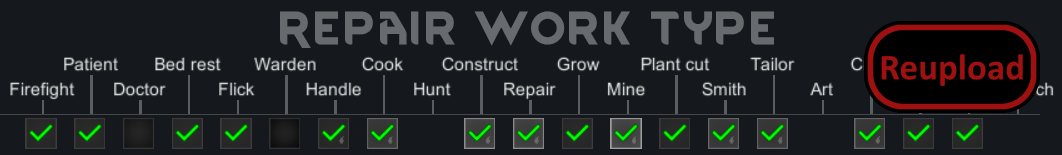
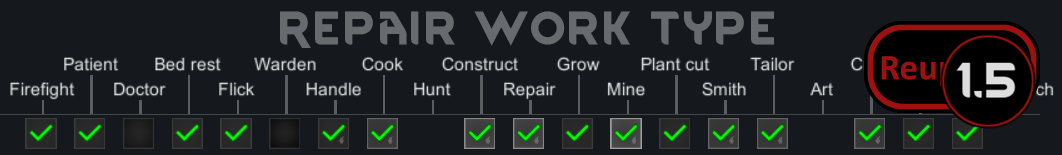
Mod updated for 1.5 and passed autotests

Changed region(s): [[0.8701, 0.2323, 0.9944, 0.8258]]

diff --git a/README.md b/README.md
@@ -32,12 +32,13 @@ Special thanks to kaptain_kavern for his mod "Corrected WorkGivers" which I took
 
 -  See if the the error persists if you just have this mod and its requirements active.
 -  If not, try adding your other mods until it happens again.
--  Post your error-log using https://steamcommunity.com/workshop/filedetails/?id=818773962]HugsLib and command Ctrl+F12
+-  Post your error-log using https://steamcommunity.com/workshop/filedetails/?id=818773962]HugsLib or the standalone https://steamcommunity.com/sharedfiles/filedetails/?id=2873415404]Uploader and command Ctrl+F12
 -  For best support, please use the Discord-channel for error-reporting.
 -  Do not report errors by making a discussion-thread, I get no notification of that.
 -  If you have the solution for a problem, please post it to the GitHub repository.
+-  Use https://github.com/RimSort/RimSort/releases/latest]RimSort to sort your mods
 
 
 
+https://steamcommunity.com/sharedfiles/filedetails/changelog/2590677308]![Image](https://img.shields.io/github/v/release/emipa606/RepairWorkType?label=latest%20version&style=plastic&color=9f1111&labelColor=black)
 
-https://steamcommunity.com/sharedfiles/filedetails/changelog/2590677308]Last updated 2023-02-21
